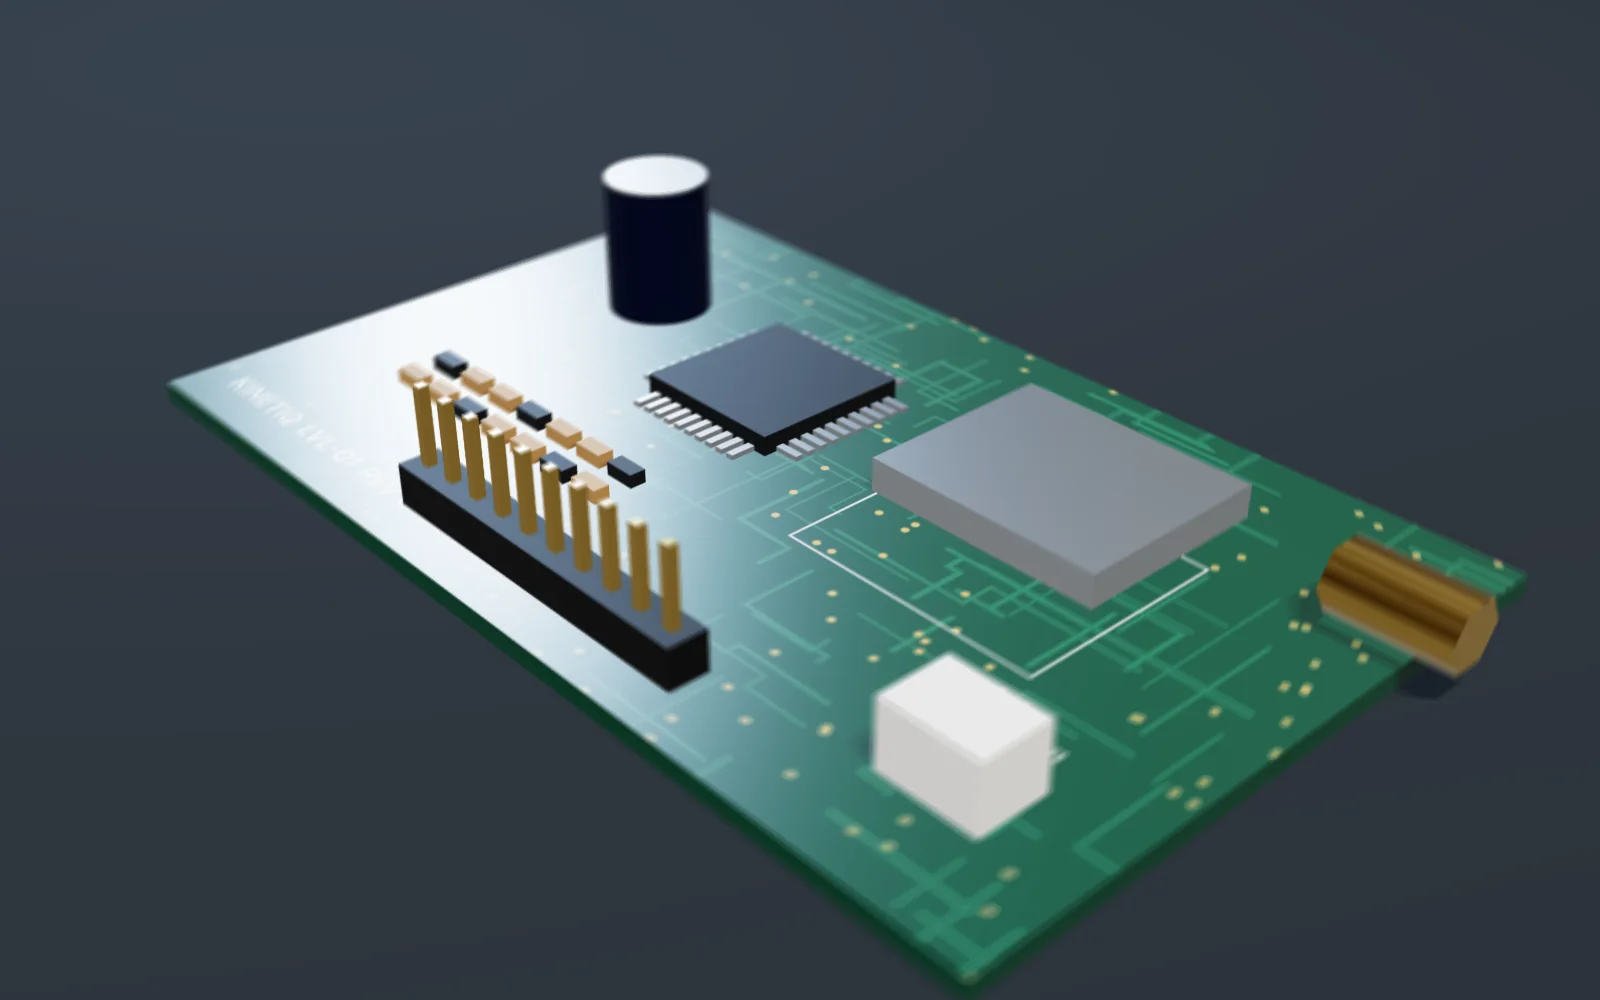
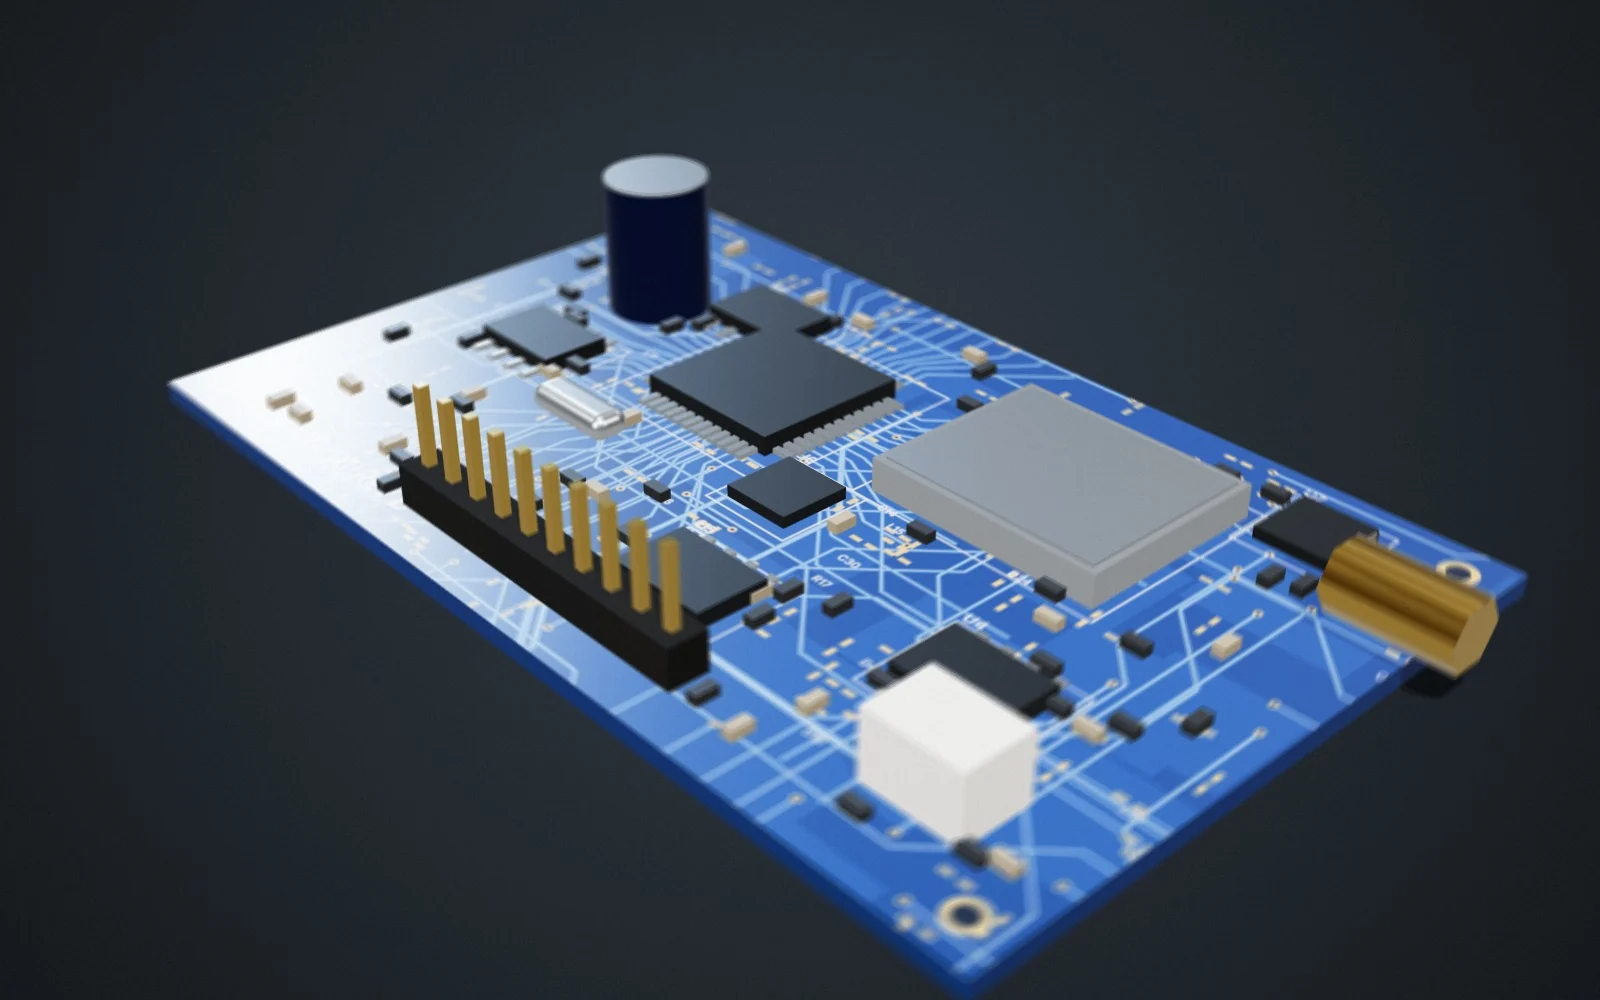
Use the chosen service renders: gear train, blue PCB and white PLC on the dark studio
Claude-Session: https://claude.ai/code/session_01VYdmJyyLHh3p2ArsBJsgFX

diff --git a/services.html b/services.html
@@ -47,7 +47,7 @@
     <section>
       <div class="wrap">
         <div class="detail" id="machine-design">
-          <div class="detail-media" data-reveal="zoom"><img src="assets/img/renders/gears.webp" alt="" width="1600" height="1200" loading="lazy" decoding="async"></div>
+          <div class="detail-media" data-reveal="zoom"><img src="assets/img/renders/gears.webp?v=4" alt="" width="1600" height="1000" loading="lazy" decoding="async"></div>
           <div data-reveal>
             <h2 data-e="4">Custom machine design</h2>
             <p data-e="5" class="lede">When there's no off-the-shelf machine for the job, we design one. Mechanisms, frames, drives and enclosures, modelled in CAD and built to survive farm conditions.</p>
@@ -55,7 +55,7 @@
           </div>
         </div>
         <div class="detail" id="electronics">
-          <div class="detail-media" data-reveal="zoom"><img src="assets/img/renders/pcb.webp" alt="" width="1600" height="1000" loading="lazy" decoding="async"></div>
+          <div class="detail-media" data-reveal="zoom"><img src="assets/img/renders/pcb.webp?v=4" alt="" width="1600" height="1000" loading="lazy" decoding="async"></div>
           <div data-reveal>
             <h2 data-e="10">Electronics &amp; PCB design</h2>
             <p data-e="11" class="lede">Custom circuit boards for sensing, control and wireless communication. The boards inside our tank monitor were designed and tested in-house.</p>
@@ -63,7 +63,7 @@
           </div>
         </div>
         <div class="detail" id="plc">
-          <div class="detail-media light" data-reveal="zoom"><img src="assets/img/renders/plc.webp" alt="" width="1600" height="1000" loading="lazy" decoding="async"></div>
+          <div class="detail-media" data-reveal="zoom"><img src="assets/img/renders/plc.webp?v=4" alt="" width="1600" height="1000" loading="lazy" decoding="async"></div>
           <div data-reveal>
             <h2 data-e="16">PLC programming</h2>
             <p data-e="17" class="lede">Programming and commissioning for PLC-controlled plant, whether it's a new control panel or an existing system that needs changes or fault-finding.</p>

diff --git a/index.html b/index.html
@@ -104,15 +104,15 @@
         </div>
         <div class="services" data-stagger>
           <a class="service" href="services.html#machine-design">
-            <div class="service-media"><img src="assets/img/renders/gears.webp" alt="" width="1600" height="1000" loading="lazy" decoding="async"></div>
+            <div class="service-media"><img src="assets/img/renders/gears.webp?v=4" alt="" width="1600" height="1000" loading="lazy" decoding="async"></div>
             <div class="service-body"><h3 data-e="34">Custom machine design</h3><p data-e="35">One-off machines and mechanisms designed around the job, from concept sketches to CAD and a working build.</p></div>
           </a>
           <a class="service" href="services.html#electronics">
-            <div class="service-media"><img src="assets/img/renders/pcb.webp" alt="" width="1600" height="1000" loading="lazy" decoding="async"></div>
+            <div class="service-media"><img src="assets/img/renders/pcb.webp?v=4" alt="" width="1600" height="1000" loading="lazy" decoding="async"></div>
             <div class="service-body"><h3 data-e="36">Electronics &amp; PCB design</h3><p data-e="37">Sensor boards, controllers and long-range wireless telemetry, designed and tested in-house.</p></div>
           </a>
           <a class="service" href="services.html#plc">
-            <div class="service-media"><img src="assets/img/renders/plc.webp" alt="" width="1600" height="1000" loading="lazy" decoding="async"></div>
+            <div class="service-media"><img src="assets/img/renders/plc.webp?v=4" alt="" width="1600" height="1000" loading="lazy" decoding="async"></div>
             <div class="service-body"><h3 data-e="38">PLC programming</h3><p data-e="39">Programming, commissioning and fault-finding for PLC-controlled plant, new or existing.</p></div>
           </a>
           <a class="service textonly" href="services.html#automation">
